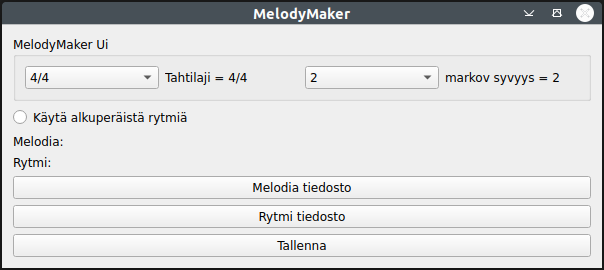
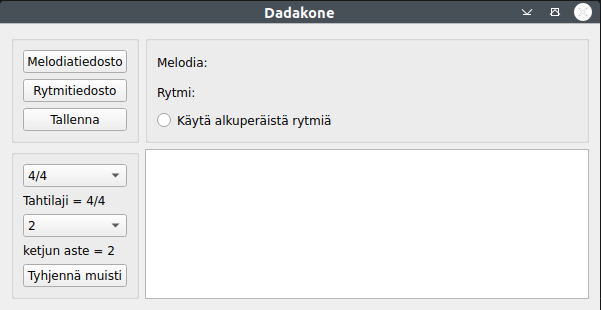
viikko6 commit1

Changed region(s): [[0.0, 0.0, 1.0, 1.0], [0.5092, 0.237, 0.9285, 0.3259], [0.2396, 0.1778, 0.3594, 0.237]]

diff --git a/src/ui.py b/src/ui.py
@@ -1,11 +1,10 @@
 import sys
-from PyQt5.QtWidgets import QApplication, QWidget, QLabel, QComboBox, QFileDialog, QHBoxLayout,QGridLayout, QGroupBox, QDialog, QVBoxLayout, QPushButton, QRadioButton
+from PyQt5.QtWidgets import QApplication, QWidget, QLabel, QComboBox, QFileDialog, QHBoxLayout,QGridLayout, QGroupBox, QDialog, QVBoxLayout, QPushButton, QRadioButton,QListWidget
 from PyQt5.QtGui import QIcon
 
 from PyQt5.QtCore import pyqtSlot, QRect
 
 from service import service
-
 
 class App(QWidget):
 
@@ -47,18 +46,27 @@ class App(QWidget):
             'Käytä alkuperäistä rytmiä', self)
         self.radioButton_use_rythm.toggled.connect(self.on_use_rythm_selected)
 
+
+
+
         Vbox1 = QVBoxLayout()
         Vbox2 = QVBoxLayout()
         Vbox1.addWidget(file_open_melody)
         Vbox1.addWidget(file_open_rythm)
         Vbox1.addWidget(file_save)
 
+
+
         Vbox2.addWidget(self.file_melody_label)
         Vbox2.addWidget(self.file_rythm_label)
         Vbox2.addWidget(self.radioButton_use_rythm)
 
+        self.listWidged = QListWidget()
+
+
         windowLayout = 	QGridLayout()
         windowLayout.addWidget(self.horizontalGroupBox,2,1)
+        windowLayout.addWidget(self.listWidged,2,2)
         horizontalGroupBox2 = QGroupBox()
         horizontalGroupBox3 = QGroupBox()
 
@@ -114,8 +122,17 @@ class App(QWidget):
     def on_open_melody(self):
         self.openFileNameDialog("melody")
 
+    @pyqtSlot()
     def on_open_rythm(self):
         self.openFileNameDialog("rythm")
+
+
+    def on_show_filelist(self):
+        self.listWidged.clear()
+        for file in service.midifile_name_melody_array:
+            self.listWidged.addItem(file)
+
+
 
     @pyqtSlot()
     def on_save(self):
@@ -130,6 +147,7 @@ class App(QWidget):
     @pyqtSlot()
     def on_reset_trie(self):
         service.reset_trie()
+        self.on_show_filelist()
 
 
 
@@ -139,6 +157,7 @@ class App(QWidget):
         self.markov_depth_qlabel.setText("markov syvyys = "+text)
         service.set_markov_depth(text)
         self.time_signature_qlabel.adjustSize()
+
 
     def on_use_rythm_selected(self):
         service.use_original_rythm = not service.use_original_rythm
@@ -151,11 +170,12 @@ class App(QWidget):
         if fileName:
             if text == "melody":
                 self.file_melody_label.setText("Melodia: "+fileName)
+
             else:
                 self.file_rythm_label.setText("Rytmi:"+fileName)
 
             service.add_file_name(fileName, text)
-
+        self.on_show_filelist()
     def openFileNamesDialog(self):
         options = QFileDialog.Options()
         options |= QFileDialog.DontUseNativeDialog

diff --git a/src/service.py b/src/service.py
@@ -40,6 +40,7 @@ class Service:
         """
         self.use_original_rythm = False
         self.midifile_name_melody = ""
+        self.midifile_name_melody_array = []
         self.midifile_name_rythm = ""
         self.out_file = []
         self.num_tracks = 0
@@ -70,10 +71,28 @@ class Service:
         """
 
         self.markov_depth = int(text)
+        self.trie = Trie()
+        for file in self.midifile_name_melody_array:
+            self.add_to_trie(file)
 
     def reset_trie(self):
-        self.trie = Trie()
 
+        self.midifile_name_melody_array = []
+        self.midifile_name_melody_array.append(self.midifile_name_melody)
+        self.trie = Trie()
+        for file in self.midifile_name_melody_array:
+            self.add_to_trie(file)
+
+    def add_to_trie(self,filename):
+
+        data = r.from_midi_To_list(filename)[0]
+
+        melody = []
+        for i in range(0, len(data)):
+            melody.append(data[i][1])
+
+        trie =  self.trie
+        trie.insert_array(melody, self.markov_depth+1)
 
     def add_file_name(self, filename, text):
         """asettaa tallennettavan midi tiedoston nimen
@@ -83,6 +102,8 @@ class Service:
         """
         if text == "melody":
             self.midifile_name_melody = filename
+            self.midifile_name_melody_array.append(filename)
+            self.add_to_trie(filename)
         else:
             self.midifile_name_rythm = filename
 
@@ -114,20 +135,13 @@ class Service:
 
         data = r.from_midi_To_list(filename)[0]
 
-        melody = []
-        for i in range(0, len(data)):
-            melody.append(data[i][1])
-
-        trie =  self.trie
-        trie.insert_array(melody, self.markov_depth+1)
-
         if self.midifile_name_rythm != "":
             data = r.from_midi_To_list(self.midifile_name_rythm)[0]
         rythm = []
         for i in range(0, len(data)):
             rythm.append(data[i][0])
 
-        melody_out = mc.doArray(trie, self.markov_depth, len(rythm))
+        melody_out = mc.doArray(self.trie, self.markov_depth, len(rythm))
 
         if self.use_original_rythm == False:
             rythm_trie = Trie()

diff --git a/src/tests/midi_test.py b/src/tests/midi_test.py
@@ -2,7 +2,11 @@ import unittest
 import midiIO
 class TestTrie(unittest.TestCase):
 
+    def test_get_file_info(self):
+
+        self.assertAlmostEqual(midiIO.get_file_info("./data/testit/midi_io_test_out.mid"), 1)
+
     def test_opened_and_saved_file_equals(self):
-        out = midiIO.from_midi_To_list("./data/midi_io_test_in.mid")
-        midiIO.arr_To_midifile("./data/midi_io_test_out.mid",out,4,2)
-        self.assertAlmostEqual(midiIO.from_midi_To_list("./data/midi_io_test_out.mid"), out)
+        out = midiIO.from_midi_To_list("./data/testit/midi_io_test_in.mid")
+        midiIO.arr_To_midifile("./data/testit/midi_io_test_out.mid",out,4,2)
+        self.assertAlmostEqual(midiIO.from_midi_To_list("./data/testit/midi_io_test_out.mid"), out)

diff --git a/src/markov_chain.py b/src/markov_chain.py
@@ -57,24 +57,7 @@ def doArray(trie, deg, lenght):
             sq = []
     return out
 
-    '''
 
-
-    for i in range(0, lenght):
-        next = getNext(trie, sq)
-
-        if next == []:
-            for j in range(0, (len(sq)+1)):
-                next = getNext(trie, sq[:-j])
-                if next != []:
-                    sq = doStart(trie, deg)
-                    break
-        out.append(next)
-        sq.append(next)
-        sq.pop(0)
-
-    return out
-'''
 
 def doArray_strict(trie, deg, lenght):
     """ testejä varten tehty metodi. Eroaa edellisestä siten että pysähtyy mikäli ei pääse

diff --git a/src/tests/markov_chain_test.py b/src/tests/markov_chain_test.py
@@ -87,7 +87,7 @@ class Test_markov_chain(unittest.TestCase):
         self.assertAlmostEqual(len(doArray(self.trie2, test_lenght, 100)), 100)
 
     def test_do_array_strict_all_can_be_found(self):
-        """
+        """Kaikki sekvenssit löytyvät alkuperäisestä sekvenssistä
         """
         arr = [1, 5, 3, 2, 6, 7, 8, 3, 2, 1, 5, 4,
                6, 5, 3, 4, 2, 5, 4, 6, 7, 6, 1, 3, 2, 4]

diff --git a/docs/toteutusdokumentti.md b/docs/toteutusdokumentti.md
@@ -3,29 +3,31 @@
 
 ## Käytettävät tietorakenteet ja algoritmit
 Midifileistä avattavat sekvenssit tallennetaan trie rakenteeseen halutulla maksimipituudella. Trie tallentaa myös sekvenssien lyhyemmät osajonot. Triestä voi hakea seuraavan sekvenssissä olevan arvon pituuksilla 0-(max-1).
-Trien ohella tärkein algoritmi on markov_chain.py filessä oleva get_next joka jolle annetaan parametrina Trie rakenne sekä sekvenssi jota vastaavat yhtä pidemmät sekvenssit haetaan trie rakenteesta. Seuraavalle arvolle lasketaan frekvenssi ja niitä hyödyntäen arvotaan seuraava arvo. Tätä metodia hyödynnetään pidempiä ketjuja rakentavassa doArray metodissa.
+Trien ohella tärkein algoritmi on `markov_chain.py` filessä oleva `get_next` jolle annetaan parametrina Trie rakenne sekä sekvenssi jota vastaavat yhtä pidemmät sekvenssit haetaan trie rakenteesta. Seuraavalle arvolle lasketaan frekvenssi ja niitä hyödyntäen arvotaan seuraava arvo. Tätä metodia hyödynnetään pidempiä ketjuja rakentavassa `doArray` metodissa.
 
 
 ## Käytettävät tekniikat
 
-Ohjelmisto on toteutettu käyttäen python ohjelmointikielenä. Käyttöliittymä on toteutettu PyQt5 kirjaston avulla. Midifilejen avaamiseen on käytössä Mido kirjasto ja niiden tallennukseen on käytössä midiutil kirjastoa.
+Ohjelmisto on toteutettu käyttäen python ohjelmointikieltä. Käyttöliittymä on toteutettu PyQt5 kirjaston avulla. Midifilejen avaamiseen on käytössä Mido kirjasto ja niiden tallennukseen on käytössä midiutil kirjastoa.
 
 
 ## Ohjelmiston yleinen rakenne
 
-Sovelman rakenteen muodostavat App luokka ui.py tiedostossa ja Servise luokka. App luokka on käyttöliittymäluokka. Servise luokassa on kaikki toiminnallisuus. Midifilen avaamiseen ja tallentamiseen tarvittavat metodit ovat midiIO.py tiedostossa.
+Sovelman rakenteen muodostavat App luokka tiedostossa `ui.py` ja Servise luokka tiedostossa `service.py`. App luokka on käyttöliittymäluokka. Servise luokassa on kaikki toiminnallisuus. Midifilen avaamiseen ja tallentamiseen tarvittavat metodit ovat `midiIO.py` tiedostossa.
+
 
 
 
 ## Saavutetut aika- ja tilavaativuudet
 
-Trie tietorakenteella saavutetaan aika- ja tilavaatimuksiltaan [määritelydokumentissa](./maarittelydokumentti.md) annetut rajat. Markovin ketjujen osalta O(n) aika vaatimus toteutuu.
+Trie tietorakenteella saavutetaan aika- ja tilavaatimuksiltaan [määritelydokumentissa](./maarittelydokumentti.md) annetut rajat `O(n)`. Markovin ketjujen osalta toteutuu `O(n)` aika vaatimus.
 
 ## Työn mahdolliset puutteet ja parannusehdotukset
 
--   Midifilejen avaaminen vaatisi enemmän vielä miettimistä. Sovelma ei osaa käsitellä taukoja ollenkaan vaan sivuutta tauot tiedostoja avattaessa.
+-   Midifilejen avaaminen vaatisi enemmän vielä miettimistä. Sovelma ei osaa käsitellä taukoja ollenkaan vaan sivuutta tauot tiedostoja avattaessa. Voisi myös lisätä tietyn pituuden esim. tahteina mikä olisi generoitava pituus. Käyttöliittymä mahdollistaisi myös että voisi valita mitkä tiedostot kulloinkin generoitavaan midifilen tuottamiseen osllistuvat. Myös rytmin osalta voisi olla useampia tiedostoja käytössä. Nyt rytmi generoidaan vain yhden filen perusteella. Moniääninen generointi on jäänyt koskamaan vain neliäänistä.
 
 
 # Lähteet
 
 -   Laaksonen A, 2018, "Kisakoodarin käsikirja", luettu 18.1.2022. Saatavilla: [https://www.cs.helsinki.fi/u/ahslaaks/kkkk.pdf](https://www.cs.helsinki.fi/u/ahslaaks/kkkk.pdf)
+

diff --git a/docs/Kayttoohje.md b/docs/Kayttoohje.md
@@ -17,11 +17,20 @@ poetry run invoke start
 
 ![](./kuvat/kayttoliittyma.png)
 
-- Tallennettavan miditiedoston tahtilajin voi valita.
-- Markov syvyys tarkoittaa sitä kuinka pitkiä sekvenssejä tallennetaan triehen ja vastaavasti kuinka pitkä on sekvenssi jonka perusteella haetaan seuraavaa arvoa. Data tallennetaan triehen  syvyys + 1 pitkinä osajonoina.
+ylä vasen:
+- Melodiatiedosto on se jonka perusteella tehdään tonaalinen materiaali. Näitä voidaan lisätä useampia.
+- Rytmitiedosto on rytmin perustana joko sellaisenaan tai markovin ketjujen materiaalina.
+- Tallenna tallentaa miditeidoston voimassa olevilla asetuksilla.
+
+ylä oikea:
+- Melodia = viimeeksi valittu melodiatiedosto.
+- Rytmi = rytmin muodostamiseen valittu tiedosto.
 - Käytä alkuperäistä rytmiä mahdollistaa valita tehdäänkä rytmi markovin ketjujen avulla vai käyttäänkö rytmi tiedoston rytmi sellaisenaan.
-- Melodiatiedosto on se jonka perusteella tehdään tonaalinen materiaali
-- Rytmitiedosto on rytmin perustana joko sellaisenaan tai markovin ketjujen materiaalina
+
+ala vasen:
+
+- ketjun aste tarkoittaa sitä kuinka pitkiä sekvenssejä tallennetaan triehen ja vastaavasti kuinka pitkä on sekvenssi jonka perusteella haetaan seuraavaa arvoa. Data tallennetaan triehen  syvyys + 1 pitkinä osajonoina.
+
 
 - kansiossa data on joitan midifilejä joita voi käyttää materiaalina. Kansiossa moniääniset on neliäänisiä koraaleja joita voi kokeilla mutta niiden osalta toiminnot ovat keskeneräisiä.
 

diff --git a/docs/testikattavuusdokumentti.md b/docs/testikattavuusdokumentti.md
@@ -1,15 +1,16 @@
 ## Testausdokumentti
 
-Ohjelmaa on testattu automatisoiduilla yksikköteillä unittestilla sekä manuaalisesti järjestelmätasolla. Sovellusta on testattu myös erityisillä testimidifileillä jolla on testattu että markovin ketjujen muodostuminen on odotettua. Ne sijaitsevat data/testit kansiossa. Näistä saadun informaation perusteella on markovin ketjun tuottavaa doArray metodia korjattu.
+Ohjelmaa on testattu automatisoiduilla yksikköteillä unittestilla sekä manuaalisesti järjestelmätasolla. Sovellusta on testattu myös erityisillä testimidifileillä jolla on testattu että markovin ketjujen muodostuminen on odotettua. Ne sijaitsevat data/testit kansiossa. Näiden avulla on mahdollista selvittää että markovin ketjut eivät tuota opetusdatassa olemattomia sekvenssejä. Saadun informaation perusteella on markovin ketjun tuottavaa doArray metodia korjattu. Nämä testit on toteutettu järjestelmätasolla. Myös midiI0.py luokan testauksessa on hyödynnetty midifilejä jotka sijaitsevat data kansiossa.
+
 
 
 ## Sovelluslogiikka
 
-Sovelluslogiikasta vastaavaa `Service`-luokkaa ei ole testattu vielä
+Sovelluslogiikasta vastaavaa `Service`-luokkaa on testattu järjestelmätasolla.
 
 
 ### Testauskattavuus
 
-Sovelluksen testauksen haarautumakattavuus on 96%
+Sovelluksen testauksen haarautumakattavuus on 97%
 
 ![](./kuvat/testikattavuus.png)

diff --git a/docs/viikkoraportit/viikko6.md b/docs/viikkoraportit/viikko6.md
@@ -1,0 +1,22 @@
+# Viikkoraportti 6
+
+
+### Mitä olen tehnyt tällä viikolla?
+Lähinnä dokumentointia, refaktorointia ja muutaman lisäominaisuuden. Olen myös testannut toimintaa midifilejen avulla.
+
+### Miten ohjelma on edistynyt?
+
+Ohjelmaan on tullut jotain lisäominaisuuksia. Triessä mukana olevat tiedostot näkyvät nyt käyttöliittymässä ja trien voi resetoida niin että viimeinen avattu tiedosto jää käyttöön. Ohjelma on ominaisuuksiensa osalta nyt valmis.
+
+### Mitä opin tällä viikolla
+
+Oli mukava huomata että testaus auttaa paikallistamaan virheet siinä tilanteessa kun muokkaa koodia.
+
+### Mikä jäi epäselväksi tai tuottanut vaikeuksia? Vastaa tähän kohtaan rehellisesti, koska saat tarvittaessa apua tämän kohdan perusteella.
+
+Ohjelma toimii hyvin. Ainakaan itse en ole havainnut mitään ongelmaa. Testaus on mielestäni melko kattava. Onko vielä asioita mihin kannattaisi kiinnittää huomiota? Dokumentointi? Koodin laatu?
+### Mitä teen seuraavaksi?
+
+Koodin laatua pitää parantaa. Service luokka vaatii refaktorointia
+
+**Työaika:** noin 5 tuntia

diff --git a/README.md b/README.md
@@ -19,5 +19,6 @@ Tietorakenteet ja Algoritmit harjoitustyö
 -   [Viikko 3](./docs/viikkoraportit/viikko3.md)
 -   [Viikko 4](./docs/viikkoraportit/viikko4.md)
 -   [Viikko 5](./docs/viikkoraportit/viikko5.md)
+-   [Viikko 6](./docs/viikkoraportit/viikko6.md)
 
 
